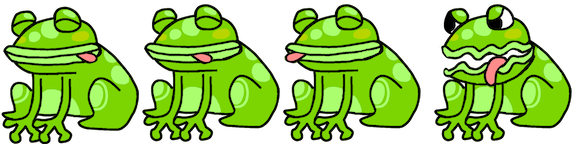
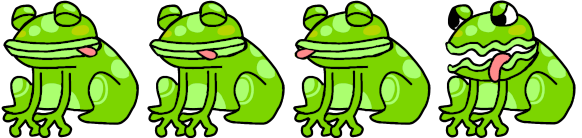
Animations work

diff --git a/template.cpp b/template.cpp
@@ -15,9 +15,10 @@
 #include "fly_png.h"
 
 #include "random_sammakko_png.h"
-#include "random_sammakko_super_isku_png.h"
+#include "lick_frame1_png.h"
+#include "lick_frame2_png.h"
+#include "lick_frame3_png.h"
 #include "wide_bg_png.h"
-#include "kieli_png.h"
 #include "pahaa_png.h"
 #include "rouskis_wav.h"
 #include "logo_png.h"
@@ -33,10 +34,15 @@ void Template::Init()
 {
     frogScale = 0.5f;
     frogSit.LoadImageBuffer(random_sammakko_png, random_sammakko_png_size, gdl::Nearest, gdl::RGBA8);
-    frogLick.LoadImageBuffer(random_sammakko_super_isku_png, random_sammakko_super_isku_png_size, gdl::Nearest, gdl::RGBA8);
 
     pahaa.LoadImageBuffer(pahaa_png, pahaa_png_size, gdl::Nearest, gdl::RGBA8);
-    kieli.LoadImageBuffer(kieli_png, kieli_png_size, gdl::Nearest, gdl::RGBA8);
+    kieli_frames[0].LoadImageBuffer(lick_frame1_png, lick_frame1_png_size, gdl::Nearest, gdl::RGBA8);
+    kieli_frames[1].LoadImageBuffer(lick_frame2_png, lick_frame2_png_size, gdl::Nearest, gdl::RGBA8);
+    kieli_frames[2].LoadImageBuffer(lick_frame3_png, lick_frame3_png_size, gdl::Nearest, gdl::RGBA8);
+    kieli_timer = 0;
+    kieli_interval = 0.1;
+    kieli_frame = 0;
+    kieli_animation_direction = 1;
 
     gdl::SpriteSetConfig pahaacf = pahaa_sprites.CreateConfig(4, 582/4, 144);
     pahaa_sprites.LoadSprites(pahaacf, &pahaa);
@@ -121,16 +127,24 @@ void Template::UpdateGameLoop()
             frogState.velocity = glm::normalize(frogWalkDiff) * frog_jump_speed_high;
         }
     }
+    else
+    {
+        if (gdl::WiiInput::ButtonHeld(WPAD_BUTTON_B)) {
+            ChangeFrogAnimation(FrogAnimation::Lick);
+        }
+    }
+
+    UpdateFrog();
 
     fly.Update(deltaTime);
 
     // Check if the fly is caught
-    bool tongueOut = gdl::WiiInput::ButtonHeld(WPAD_BUTTON_A);
+    bool tongueOut = frogState.currentAnimation == FrogAnimation::Lick && kieli_frame >= 1;
     if (tongueOut && glm::length(fly.position - GetTongueHitboxCenter()) < tongueHitBoxSize/2)
     {
         // Catch the fly
         fly.position = glm::vec2(gdl::ScreenCenterX, -100);
-        rouskis.Play(1.0f, 100.0f);
+        frogState.flyCaught = true;
     }
 }
 
@@ -144,6 +158,7 @@ void Template::UpdatePahaaAnimaatio()
         if (pahaa_frame > 3)
         {
             pahaa_frame = 0;
+            ChangeFrogAnimation(FrogAnimation::Sit);
         }
     }
 }
@@ -175,31 +190,17 @@ void Template::DrawGameLoop()
     pond.Put(gdl::ScreenCenterX, gdl::ScreenCenterY, gdl::Color::White,
              gdl::AlignmentModes::Centered, gdl::AlignmentModes::Centered, 1.0f, 0.0f);
 
-    frogRollRadians = gdl::WiiInput::GetRoll();
-    glm::vec2 frogRenderPos = worldToScreen(frogState.pos);
-    if (gdl::WiiInput::ButtonHeld(WPAD_BUTTON_A)) 
-    {
-        float sitWh = frogSit.Xsize() /2;
-        float lickW = frogLick.Xsize();
-        float lickCenterX = lickW - sitWh;
-        frogLick.Put(
-            frogRenderPos.x, frogRenderPos.y,
-            gdl::Color::White, lickCenterX, gdl::Centered, frogScale, frogRollRadians / PI * 180.f
-        );
-    }
-    else
-    {
-        frogSit.Put(
-            frogRenderPos.x, frogRenderPos.y,
-            gdl::Color::White, gdl::Centered, gdl::Centered, frogScale, frogRollRadians / PI * 180.0f
-        );
-    }
 
     fly.Draw(&ibmFont);
 
-    // Draw tongue catch hitbox
-    glm::vec2 hb = GetTongueHitboxCenter();
-    gdl::DrawBox(hb.x - tongueHitBoxSize/2, hb.y - tongueHitBoxSize/2, hb.x + tongueHitBoxSize/2, hb.y + tongueHitBoxSize/2, gdl::Color::Red);
+    // DEBUG Draw tongue catch hitbox
+    if (frogState.currentAnimation == FrogAnimation::Lick && kieli_frame >= 1)
+    {
+        glm::vec2 hb = GetTongueHitboxCenter();
+        gdl::DrawBox(hb.x - tongueHitBoxSize/2, hb.y - tongueHitBoxSize/2, hb.x + tongueHitBoxSize/2, hb.y + tongueHitBoxSize/2, gdl::Color::Red);
+    }
+
+    DrawFrog();
 
     // Input
     short top = 32;
@@ -207,9 +208,9 @@ void Template::DrawGameLoop()
     DrawInputInfo(left, top);
 }
 
-void Template::DrawPahaaAnimaatio()
+void Template::DrawPahaaAnimaatio(int x, int y)
 {
-    pahaa_sprites.Put(0, 0, pahaa_frame, gdl::Color::White, 0, 0, 1.0f);
+    pahaa_sprites.Put(x, y, pahaa_frame, gdl::Color::White, gdl::Centered, gdl::Centered, frogScale, RadToDeg(frogRollRadians));
 }
 
 void Template::DrawInputInfo(int x, int y)
@@ -283,4 +284,95 @@ void Template::DrawStartScreen()
                    gdl::ScreenCenterY + gdl::ScreenYres/6 + ibmFont.GetHeight() * 2.0f * infoScale,
                    infoScale,
                    &ibmFont, gdl::Color::LightRed);
+}
+
+void Template::ChangeFrogAnimation(FrogAnimation newAnimation)
+{
+    if (frogState.currentAnimation == newAnimation)
+    {
+        return;
+    }
+    if (newAnimation == FrogAnimation::Eat)
+    {
+        frogState.flyCaught = false;
+        rouskis.Play(1.0f, 100.0f);
+    }
+    frogState.currentAnimation = newAnimation;
+}
+
+void Template::UpdateFrog()
+{
+    switch (frogState.currentAnimation)
+    {
+        case FrogAnimation::Sit:
+            // No animation
+            break;
+        case FrogAnimation::Lick:
+            UpdateLickAnimation();
+            break;
+        case FrogAnimation::Eat:
+            UpdatePahaaAnimaatio();
+            break;
+    };
+}
+
+void Template::UpdateLickAnimation()
+{
+    kieli_timer += deltaTime;
+    if (kieli_timer >= kieli_interval)
+    {
+        kieli_timer = 0;
+        kieli_frame += kieli_animation_direction;
+        if (kieli_animation_direction > 0 && kieli_frame > 2)
+        {
+            // Start going back
+            kieli_animation_direction = -1;
+            kieli_frame += kieli_animation_direction;
+        }
+        else if (kieli_animation_direction < 0 && kieli_frame < 0 )
+        {
+            // End
+            kieli_frame = 0;
+            kieli_animation_direction = 1;
+            if (frogState.flyCaught)
+            {
+                ChangeFrogAnimation(FrogAnimation::Eat);
+            }
+            else
+            {
+                ChangeFrogAnimation(FrogAnimation::Sit);
+            }
+        }
+    }
+}
+
+void Template::DrawFrog()
+{
+    frogRollRadians = gdl::WiiInput::GetRoll();
+    glm::vec2 frogRenderPos = worldToScreen(frogState.pos);
+    switch (frogState.currentAnimation)
+    {
+        case FrogAnimation::Sit:
+            frogSit.Put(
+                frogRenderPos.x, frogRenderPos.y,
+                gdl::Color::White, gdl::Centered, gdl::Centered, frogScale, frogRollRadians / PI * 180.0f
+            );
+            break;
+        case FrogAnimation::Lick:
+        {
+            ibmFont.Printf(10, 10, 1.0f, gdl::Color::Red, "Lick: timer%f frame%d", kieli_timer, kieli_frame);
+            float sitWh = frogSit.Xsize() /2;
+            // depending on the frame of lick animation
+            float lickW = kieli_frames[kieli_frame].Xsize();
+            float lickCenterX = lickW - sitWh;
+            kieli_frames[kieli_frame].Put(
+                frogRenderPos.x, frogRenderPos.y,
+                gdl::Color::White, lickCenterX, gdl::Centered, frogScale, frogRollRadians / PI * 180.f
+            );
+        }
+            break;
+        case FrogAnimation::Eat:
+            DrawPahaaAnimaatio(frogRenderPos.x, frogRenderPos.y);
+            break;
+    };
 }

diff --git a/template.h b/template.h
@@ -24,15 +24,18 @@ class Template
 
     // Frogs
     gdl::Image frogSit;
-    gdl::Image frogLick;
     gdl::Image pond;
     gdl::Image pahaa;
-    gdl::Image kieli;
+    gdl::Image kieli_frames[3];
     gdl::SpriteSet pahaa_sprites;
     gdl::SpriteSet kieli_sprites;
     double pahaa_timer;
     double pahaa_interval;
     int pahaa_frame;
+    double kieli_timer;
+    double kieli_interval;
+    int kieli_frame;
+    int kieli_animation_direction;
     double deltaTime;
     float deltaTimeF;
     float elapsed;
@@ -62,7 +65,7 @@ class Template
     private:
         void DrawInputInfo(int x, int y);
         void DrawTimingInfo(int x, int y, float scale);
-        void DrawPahaaAnimaatio();
+        void DrawPahaaAnimaatio(int x, int y);
         void UpdatePahaaAnimaatio();
 
         glm::vec2 screenToWorld(glm::vec2 p_screen);
@@ -78,4 +81,10 @@ class Template
 
         void UpdateStartScreen();
         void DrawStartScreen();
+
+        // Drawing and updating the frog with current animation
+        void ChangeFrogAnimation(FrogAnimation newAnimation);
+        void DrawFrog();
+        void UpdateFrog();
+        void UpdateLickAnimation();
 };

diff --git a/frog.h b/frog.h
@@ -2,7 +2,16 @@
 
 #include <glm/glm.hpp>
 
+enum FrogAnimation
+{
+    Sit,
+    Lick,
+    Eat
+};
+
 struct FrogState {
     glm::vec2 pos = { 0, 0 };
     glm::vec2 velocity = { 0, 0 };
+    FrogAnimation currentAnimation = FrogAnimation::Sit;
+    bool flyCaught = false;
 };
